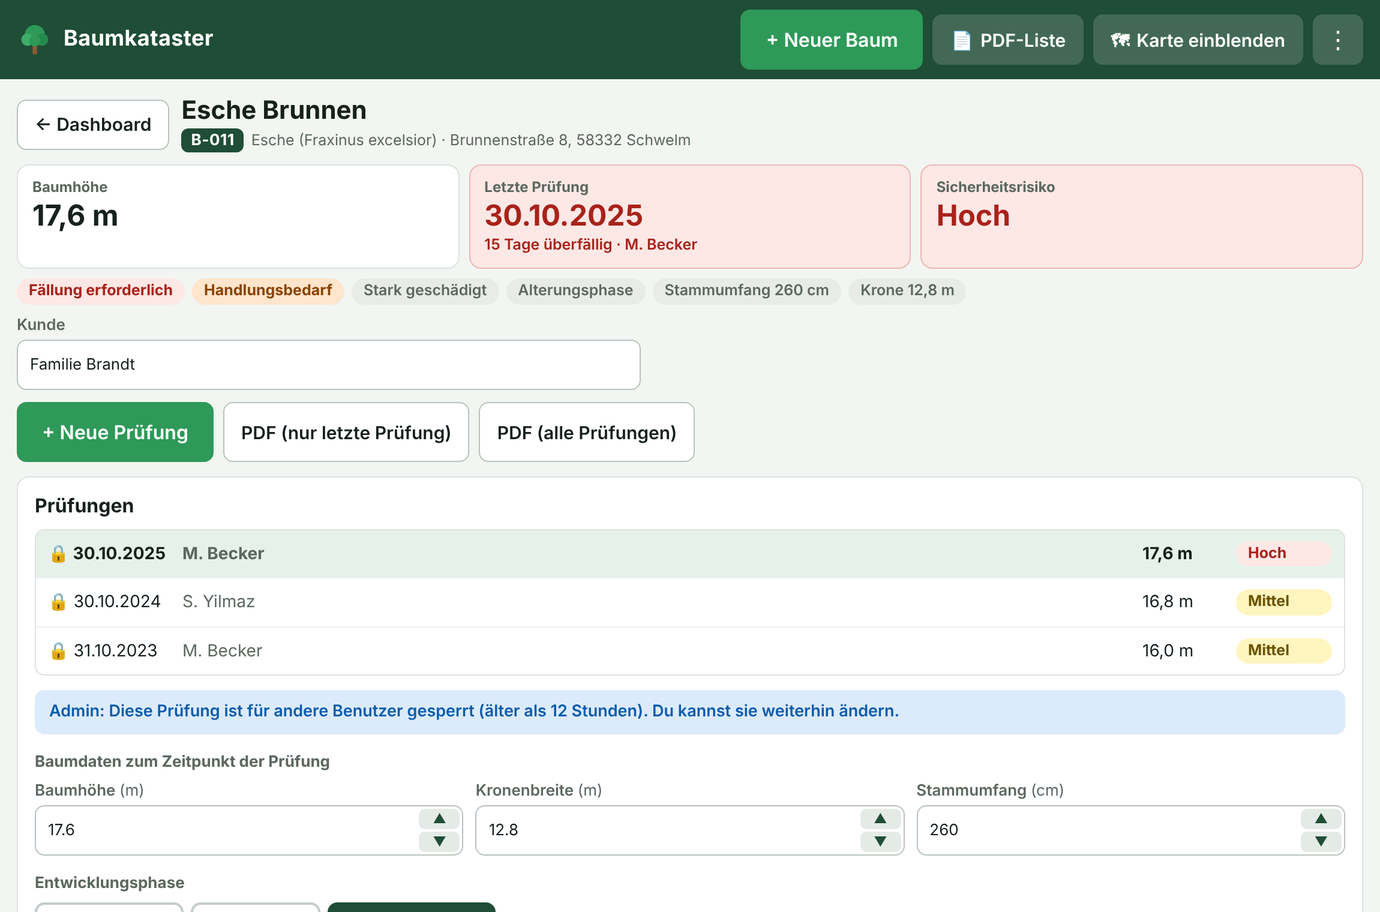
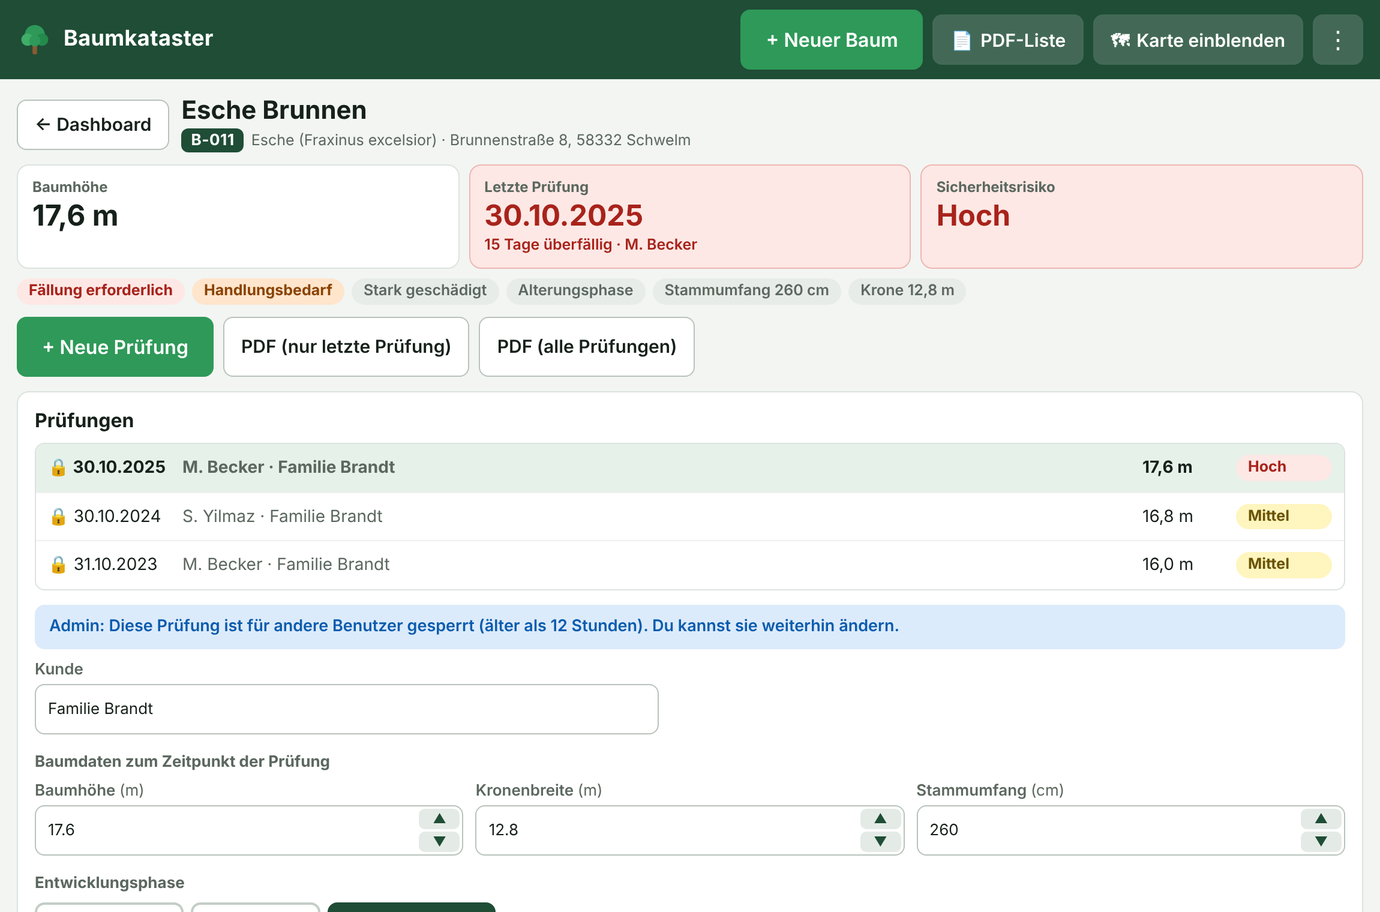
Kunde + Dashboard

Changed region(s): [[0.0, 0.3377, 0.9971, 0.8289]]

diff --git a/js/app.js b/js/app.js
@@ -280,7 +280,6 @@ function renderDetail() {
   $('detail').innerHTML = `
   <div class="dhead"><button class="btn sec" id="bBack">← Dashboard</button><div><h2 id="dTitle"></h2><small id="dAddr"></small></div></div>
   <div id="facts"></div>
-  <div class="kbar">${field('Kunde', 't', 'kunde', t.kunde, 'text', 'list="kunden" autocomplete="off" placeholder="Tippen oder auswählen"')}</div>
   <div class="acts"><button class="btn pri big" id="bNew">+ Neue Prüfung</button><button class="btn sec" id="bPdfLast">PDF (nur letzte Prüfung)</button><button class="btn sec" id="bPdfAll">PDF (alle Prüfungen)</button></div>
   <section class="card"><h3>Prüfungen</h3><div id="hist"></div><div id="kform"></div></section>
   <details class="card" open><summary>Stammdaten</summary>
@@ -312,16 +311,18 @@ function renderFacts() {
 }
 function renderHist() {
   const Ty = T(S.sel);
-  $('hist').innerHTML = S.kons.length ? S.kons.map(k => `<button class="hrow${k.id === S.kid ? ' on' : ''}" data-kid="${k.id}"><span>${abgelaufen(k) ? '<span title="abgeschlossen">🔒</span> ' : ''}${fmtD(k.datum)}</span><span class="mute">${esc(k.pruefer || '–')}</span><span>${Ty.keyFmt(Ty.keyValue({ aktuell: k.daten }))}</span><span class="chip ${RISK[k.sicherheit].c}">${cap(k.sicherheit)}</span></button>`).join('') : '<div class="empty">Noch keine Prüfung erfasst.<br>Mit „+ Neue Prüfung“ die erste anlegen.</div>';
+  $('hist').innerHTML = S.kons.length ? S.kons.map(k => `<button class="hrow${k.id === S.kid ? ' on' : ''}" data-kid="${k.id}"><span>${abgelaufen(k) ? '<span title="abgeschlossen">🔒</span> ' : ''}${fmtD(k.datum)}</span><span class="mute">${esc([k.pruefer, k.kunde].filter(Boolean).join(' · ') || '–')}</span><span>${Ty.keyFmt(Ty.keyValue({ aktuell: k.daten }))}</span><span class="chip ${RISK[k.sicherheit].c}">${cap(k.sicherheit)}</span></button>`).join('') : '<div class="empty">Noch keine Prüfung erfasst.<br>Mit „+ Neue Prüfung“ die erste anlegen.</div>';
 }
 function renderForm() {
   const k = kCur(), el = $('kform');
-  if (!k) { el.innerHTML = S.sel.typ === 'baum' ? `<h4>Baumart</h4>${artInput(S.sel.art)}` : ''; return; }
+  const kundeFeld = (s, v) => `<div class="kbar">${field('Kunde', s, 'kunde', v, 'text', 'list="kunden" autocomplete="off" placeholder="Tippen oder auswählen"')}</div>`;
+  // Ohne Prüfung gehört der Kunde zum Objekt; sonst steht er in der Prüfung (so bleiben frühere Kunden in der Historie sichtbar)
+  if (!k) { el.innerHTML = kundeFeld('t', S.sel.kunde) + (S.sel.typ === 'baum' ? `<h4>Baumart</h4>${artInput(S.sel.art)}` : ''); return; }
   const lk = locked(k), h = CONFIG.SPERRE_STUNDEN;
   const note = lk ? `<div class="lock">🔒 Diese Prüfung ist abgeschlossen (älter als ${h} Stunden) und kann nicht mehr geändert werden. Für neue Werte bitte „+ Neue Prüfung“ anlegen.</div>`
     : abgelaufen(k) ? `<div class="lock adm">Admin: Diese Prüfung ist für andere Benutzer gesperrt (älter als ${h} Stunden). Du kannst sie weiterhin ändern.</div>`
     : `<div class="lock ok">Änderbar bis ${sperreAb(k).toLocaleString('de-DE', { day: '2-digit', month: '2-digit', hour: '2-digit', minute: '2-digit' })} Uhr, danach abgeschlossen.</div>`;
-  el.innerHTML = note + T(S.sel).form(k) + `<div class="foot"><button class="btn sec" id="bPdfOne">PDF dieser Prüfung</button>${lk ? '' : '<button class="btn dan" id="bKdel">Prüfung löschen</button>'}</div>`;
+  el.innerHTML = note + kundeFeld('k', k.kunde) + T(S.sel).form(k) + `<div class="foot"><button class="btn sec" id="bPdfOne">PDF dieser Prüfung</button>${lk ? '' : '<button class="btn dan" id="bKdel">Prüfung löschen</button>'}</div>`;
   if (lk) el.querySelectorAll('[data-k],[data-d],[data-chk],.ar button').forEach(e => { e.disabled = true; });
 }
 
@@ -371,6 +372,7 @@ async function commit(el) {
       if (f === 'datum') S.kons.sort((a, b) => b.datum.localeCompare(a.datum) || b.created_at.localeCompare(a.created_at));
       renderHist();
       await syncSel();            // Datenbank-Trigger übernimmt die Werte der neuesten Prüfung ins Objekt
+      if (f === 'kunde') refreshKunden();
     } else renderForm();
   }
 }
@@ -415,13 +417,13 @@ async function newPruefung() {
   const t = S.sel, last = S.kons[0], Ty = T(t);
   const row = { objekt_id: t.id, datum: isoD(today()) };
   if (last) {            // alle bestehenden Werte der letzten Prüfung übernehmen
-    ['pruefer', 'sicherheit', 'handlungsbedarf', 'massnahmen', 'anmerkungen', 'erledigung_sofort', 'erledigung_wochen'].forEach(f => row[f] = last[f]);
+    ['kunde', 'pruefer', 'sicherheit', 'handlungsbedarf', 'massnahmen', 'anmerkungen', 'erledigung_sofort', 'erledigung_wochen'].forEach(f => row[f] = last[f]);
     row.daten = JSON.parse(JSON.stringify(last.daten || {}));
     if (row.daten.intervall == null || row.daten.intervall === '') row.daten.intervall = 1;
     row.pruefer = meName() || last.pruefer;
   } else {
     row.daten = { ...Ty.defaultDaten(), ...JSON.parse(JSON.stringify(t.aktuell || {})) };
-    row.pruefer = meName();
+    row.pruefer = meName(); row.kunde = t.kunde;
   }
   const { data, error } = await sb.from('pruefungen').insert(row).select().single();
   if (error) return toast('Anlegen fehlgeschlagen: ' + error.message, true);
@@ -499,7 +501,7 @@ async function insertObject(f, ll, src) {
   if (error) return toast('Anlegen fehlgeschlagen: ' + error.message, true);
   if (f.first) {
     const daten = { ...Ty.defaultDaten(), ...(f.hoehe != null ? { hoehe: f.hoehe } : {}) };
-    const { error: e2 } = await sb.from('pruefungen').insert({ objekt_id: data.id, datum: isoD(today()), pruefer: meName(), daten });
+    const { error: e2 } = await sb.from('pruefungen').insert({ objekt_id: data.id, datum: isoD(today()), kunde: f.kunde, pruefer: meName(), daten });
     if (e2) toast('Angelegt, aber erste Prüfung fehlgeschlagen: ' + e2.message, true);
   }
   const { data: fresh } = await sb.from('objekte').select('*').eq('id', data.id).single();

diff --git a/js/mock.js b/js/mock.js
@@ -2,7 +2,7 @@
 // Bildet die Datenbank-Automatik aus setup.sql nach: ID-Vergabe, Übernahme der neuesten Prüfung, 12-Stunden-Sperre, Admin-Recht.
 // Anmeldung: admin / admin (Admin) oder pruefer / pruefer (normaler Benutzer).
 function createMock() {
-  const KEY = 'bk_test_db_v3', SESS = 'bk_test_user', listeners = [];
+  const KEY = 'bk_test_db_v4', SESS = 'bk_test_user', listeners = [];
   const USERS = { admin: { pw: 'admin', name: 'Admin', role: 'admin' }, pruefer: { pw: 'pruefer', name: 'P. Prüfer', role: null } };
   const me = () => USERS[localStorage.getItem(SESS)] || null, isAdmin = () => !!me() && me().role === 'admin';
   const gesperrt = k => !isAdmin() && Date.now() - new Date(k.created_at).getTime() > 12 * 36e5;
@@ -28,7 +28,7 @@ function createMock() {
   function sync(bid) {
     const t = db.objekte.find(x => x.id === bid); if (!t) return;
     const n = db.pruefungen.filter(k => k.objekt_id === bid).sort((a, b) => b.datum.localeCompare(a.datum) || b.created_at.localeCompare(a.created_at))[0];
-    if (n) Object.assign(t, { aktuell: clone(n.daten), sicherheit: n.sicherheit, handlungsbedarf: n.handlungsbedarf, pruefer: n.pruefer, letzte_pruefung: n.datum, massnahmen: n.massnahmen, anmerkungen: n.anmerkungen });
+    if (n) Object.assign(t, { aktuell: clone(n.daten), sicherheit: n.sicherheit, handlungsbedarf: n.handlungsbedarf, kunde: n.kunde, pruefer: n.pruefer, letzte_pruefung: n.datum, massnahmen: n.massnahmen, anmerkungen: n.anmerkungen });
     else Object.assign(t, { aktuell: {}, sicherheit: 'gering', handlungsbedarf: 'nein', pruefer: null, letzte_pruefung: null, massnahmen: null, anmerkungen: null });
   }
 
@@ -60,7 +60,7 @@ function createMock() {
       if (ago == null) return;
       for (let i = prev; i >= 0; i--) {   // älteste zuerst, damit created_at stimmt
         d.pruefungen.push(prDef({
-          objekt_id: t.id, datum: ld(ago + 365 * i), pruefer: P[(i + idx) % 2],
+          objekt_id: t.id, datum: ld(ago + 365 * i), kunde: idx === 3 && i ? 'Hausverwaltung Alt & Partner' : t.kunde, pruefer: P[(i + idx) % 2],
           sicherheit: i ? (ri === 'hoch' ? 'mittel' : 'gering') : ri, handlungsbedarf: i ? 'nein' : ha,
           massnahmen: i ? null : (mass || null), anmerkungen: i ? null : (bef.length ? 'Siehe Regelkontrolle' : null),
           daten: {
@@ -150,4 +150,4 @@ function createMock() {
     }
   };
 }
-if ($('bReset')) $('bReset').onclick = () => { if (confirm('Alle Testdaten verwerfen und die Beispieldaten neu laden?')) { localStorage.removeItem('bk_test_db_v3'); location.reload(); } };
+if ($('bReset')) $('bReset').onclick = () => { if (confirm('Alle Testdaten verwerfen und die Beispieldaten neu laden?')) { localStorage.removeItem('bk_test_db_v4'); location.reload(); } };

diff --git a/css/app.css b/css/app.css
@@ -106,7 +106,8 @@ tr.r:hover td{background:#f4f8f5}
 tr.r.off td{background:var(--off-bg);color:var(--mute)}
 tr.r.off:hover td{background:#dfe4e0}
 td small{display:block;line-height:1.25}
-td.idc{white-space:nowrap;font-weight:700}
+td.idc{white-space:nowrap;font-weight:700;font-size:12.5px;padding-right:2px}
+th:first-child button{padding-right:2px}
 td.nw{white-space:nowrap}
 .badge{font-size:11px;font-weight:700;border-radius:4px;padding:1px 5px;margin-left:5px;vertical-align:1px}
 .badge.off{background:var(--off-m);color:#fff}.badge.blu{background:var(--blu-bg);color:var(--blu)}.badge.red{background:var(--red);color:#fff}.badge.org{background:var(--org-bg);color:var(--org)}
@@ -125,7 +126,7 @@ td.nw{white-space:nowrap}
 .tile.yel{background:var(--yel-bg);border-color:#ecd987}.tile.yel .big,.tile.yel small{color:var(--yel)}
 .tile.grn{background:var(--grn-bg);border-color:#aed6bb}.tile.grn .big,.tile.grn small{color:var(--grn)}
 .flags{display:flex;gap:6px;flex-wrap:wrap;margin:8px 0}
-.kbar{margin:2px 0 4px;max-width:520px}
+.kbar{margin:8px 0 2px;max-width:520px}
 .lock{border-radius:8px;padding:9px 12px;margin:0 0 4px;font-size:13.5px;font-weight:600;background:var(--off-bg);color:var(--ink)}
 .lock.adm{background:var(--blu-bg);color:var(--blu)}
 .lock.ok{background:none;padding:0;font-weight:400;color:var(--mute)}

diff --git a/js/baum.js b/js/baum.js
@@ -103,7 +103,7 @@ TYPES.baum = {
       aktuell(o, P) { const a = o.aktuell || {}; P.row('Baumhöhe:', P.m(a.hoehe, 1, 'm')); P.row('Kronenbreite:', P.m(a.breite, 1, 'm')); P.row('Stammumfang:', P.m(a.umfang, 0, 'cm')); },
       pruef(k, P) {
         const D = k.daten || {};
-        P.row('Prüfer:', k.pruefer); P.row('Intervall (Jahre):', D.intervall);
+        P.row('Kunde:', k.kunde); P.row('Prüfer:', k.pruefer); P.row('Intervall (Jahre):', D.intervall);
         P.row('Baumhöhe:', P.m(D.hoehe, 1, 'm')); P.row('Kronenbreite:', P.m(D.breite, 1, 'm')); P.row('Stammumfang:', P.m(D.umfang, 0, 'cm'));
         P.row('Entwicklungsphase:', P.opts(PHASE, D.phase)); P.row('Zustand:', P.opts(ZUST, zNorm(D.zustand)));
         P.row('Sicherheitsrisiko:', P.opts(['gering', 'mittel', 'hoch'], k.sicherheit)); P.row('Handlungsbedarf:', P.opts(['ja', 'nein'], k.handlungsbedarf));

diff --git a/README.md b/README.md
@@ -11,7 +11,7 @@ Webanwendung für Baumkontrollen im GaLaBau: Bäume auf der Karte erfassen, Prü
 - Dashboard mit Karte und Baumliste, dringende Bäume stehen oben
 - Ampel nach Prüfintervall: überfällig (rot), ≤ 30 Tage (orange), ≤ 3 Monate (gelb)
 - Automatische Baum-IDs (B-001, B-002, …)
-- Kunde je Baum, Filter und Suche nach Kunde
+- Kunde je Prüfung (frühere Kunden bleiben in der Historie sichtbar), Filter und Suche nach Kunde
 - Neue Prüfung übernimmt die Werte der letzten Prüfung
 - Prüfungen sind 12 Stunden nach dem Anlegen abgeschlossen, danach kann nur ein Admin sie ändern
 - Bäume als „Entfernt“ markieren (bleiben dokumentiert, eigene Kachel)
@@ -38,7 +38,7 @@ Webanwendung für Baumkontrollen im GaLaBau: Bäume auf der Karte erfassen, Prü
 | `js/mock.js` | Testversion ohne Datenbank |
 | `test.html` | Öffnet die Testversion (`index.html?test`), Login `admin` / `admin` oder `pruefer` / `pruefer` |
 | `setup.sql` | Neue Datenbank in Supabase einrichten |
-| `update_2026-11.sql` | Bestehende Datenbank aktualisieren (ohne Datenverlust) |
+| `update_2026-11.sql`, `update_2026-11b.sql` | Bestehende Datenbank aktualisieren (ohne Datenverlust), in dieser Reihenfolge |
 
 ## Aussehen anpassen
 
